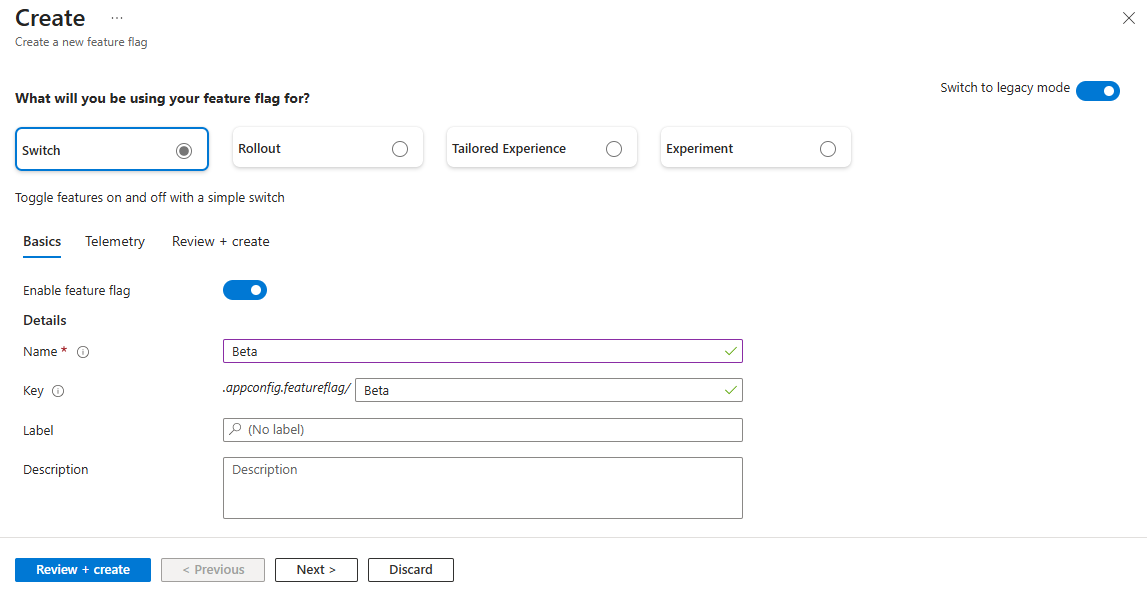
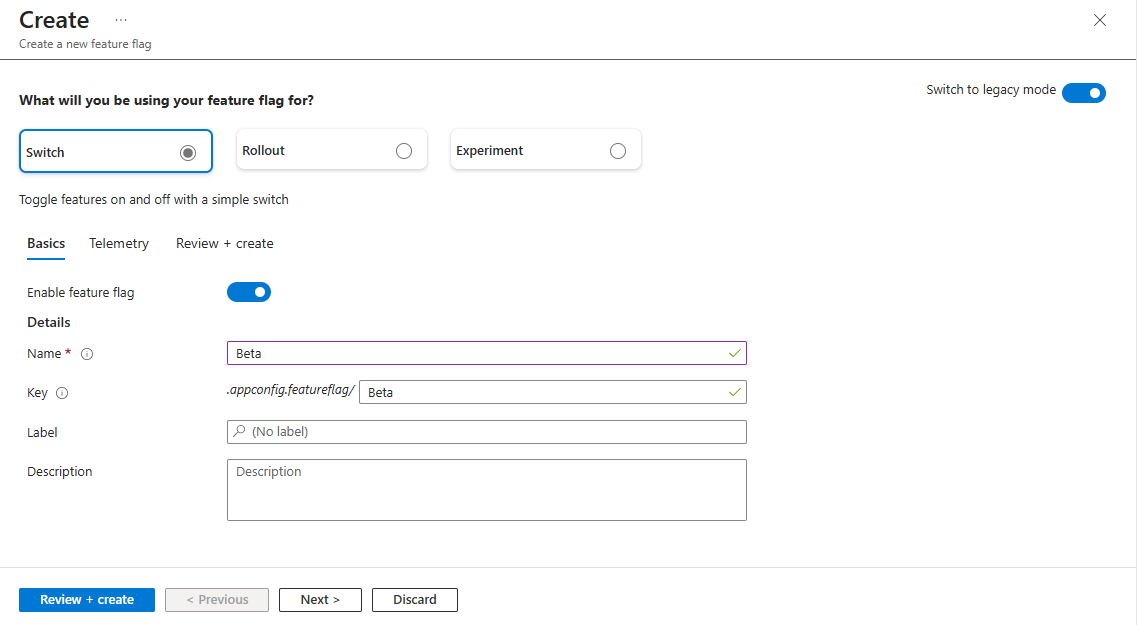
Remove tailored experiment, update images

diff --git a/articles/azure-app-configuration/manage-feature-flags.md b/articles/azure-app-configuration/manage-feature-flags.md
@@ -127,62 +127,6 @@ Add a new feature flag in the Azure portal by following the steps below.
 
     1. Select **Review + create** to see a summary of your new feature flag, and then select **Create** to finalize your operation. A notification indicates that the new feature flag was created successfully.
 
-      ### [Tailored Experience](#tab/tailored-experience)
-    
-    Use **Tailored Experience** to deliver personalized behavior based on rules or feature filters. Guidance:
-
-    - Combine targeting filters (for example, user attributes, groups, or custom rules) to define audiences.
-    - Test rules in a small audience before widening scope.
-    - Prefer targeted filters for per-customer or per-role features.
-    
-    When to use:
-    - Personalization, role-based access, or per-customer feature variations.
-    - Complex conditions that require deterministic targeting.
-
-    1. Configure **Basics** to set the core properties of your feature flag.
-            
-        | Setting                 | Example value  | Description                                                                                                                                                                                                                                                              |
-        | ----------------------- | -------------- | ------------------------------------------------------------------------------------------------------------------------------------------------------------------------------------------------------------------------------------------------------------------------ |
-        | **Enable feature flag** | Box is checked | This option enables the feature flag upon creation. If you leave this box unchecked, the new feature flag's configuration will be saved but the new feature flag will remain disabled.                                                                                   |
-        | **Feature flag name**   | *Beta*         | The feature flag name is what you use to reference the flag in your code. It must be unique within an application.                                                                                                                                                       |
-        | **Key**                 | *Beta*         | You can use the key to filter feature flags that are loaded in your application. The key is generated from the feature flag name by default, but you can also add a prefix or a namespace to group your feature flags, for example, *.appconfig.featureflag/myapp/Beta*. |
-        | **Label**               | Leave empty    | You can use labels to create different feature flags for the same key and filter flags loaded in your application based on the label. By default, a feature flag has no label.                                                                                           |
-        | **Description**         | Leave empty    | Leave empty or enter a description for your feature flag.                                                                                                                                                                                                                |
-
-        :::image type="content" source="media/manage-feature-flags/create-feature-flag-tailored-experience.png" alt-text="Screenshot of the Azure portal that shows the Create feature flag feature - Switch option.":::
-
-    1. Configure **Variants** to compare behavior, allocate traffic, and run targeted tests.
-        
-        | Setting             | Example value            | Description                                                                                                                                                                                                                          |
-        |---------------------|--------------------------|--------------------------------------------------------------------------------------------------------------------------------------------------------------------------------------------------------------------------------------|
-        | **Variant name**    | *Variant 1*              | Enter a unique name for each variant. Variant names identify the variant in the Feature manager and in telemetry or logs. Add at least two variants so you can compare outcomes and allocate traffic between them.                   |
-        | **Value**           | `<your-variant-1-value>` | The value returned for the variant. It can be a string, number, boolean, or JSON object. Use **Edit value in multiline** for complex JSON configuration that your application reads when evaluating the flag.                                |
-        | **Default variant** | *Variant 1* (Default)    | Choose one variant as the stable fallback and baseline. This variant is returned when no specific assignment applies or when the feature flag is disabled; it's also the baseline used for targeted allocation and controlled tests. |
-    
-    1. Configure **Audience** with target groups and users to assign specific variants to selected groups or individuals, regardless of percentage-based rollout.
-
-        | Setting         | Example value       | Description                                                                                                                                                                                       |
-        |-----------------|---------------------|---------------------------------------------------------------------------------------------------------------------------------------------------------------------------------------------------|
-        | **Group name**  | *MarketingTeam*     | Enter the name of a group. If a group is listed here, the corresponding variant will be assigned to that group even if its members fall outside the percentage-based allocation for that variant. |
-        | **Variant**     | *BetaExperience*    | Select the variant to assign to the specified group. This ensures a consistent experience for all members of the group regardless of rollout percentage.                                          |
-        | **User name**   | *john@example.com*  | Enter the name or identifier of an individual user. If a user is listed here, the corresponding variant will be assigned to that user even if they fall outside the percentage-based allocation.  |
-        | **Variant**     | *BetaExperience*    | Select the variant to assign to the specified user. This guarantees the user receives the intended experience regardless of other targeting rules.                                                |
-
-        > [!IMPORTANT]
-        > If feature evaluations occur in a client application (for example, a web browser), feature flag data — including user names specified here — may be exposed to end users.
-
-    1. Configure **Conditions** to schedule changes and manage custom constraints for serving your features.
-
-        | Setting                                 | Example value                                                                                              | Description                                                                                                                                                     |
-        |-----------------------------------------|------------------------------------------------------------------------------------|---------------------------------------------------------------------------------------------------------------------------------------------------------------------------------------|
-        | **Add schedule**                        | Start: *2025-11-01*<br>End: *2025-11-15*<br>Time zone: *(UTC-06:00) Central Time (US & Canada)*<br>Recurrence: disabled | Define a time-based rollout by specifying start and end dates. Optionally update the suggested time zone and enable recurrence for repeated activations. |
-        | **Add custom condition**                | `User.Subscription == "Premium"`                                                   | Create conditions based on custom attributes (for example, region, device type, or subscription level). Conditions let you target precisely which users receive the feature.         |
-        | **Require all feature filters to be enabled** | On (checked)                                                                 | This option appears only after you enable both **Add custom condition** and **Add schedule**. When checked, all enabled feature filters must evaluate to true for the feature to be applied (logical AND). When unchecked, the filters are evaluated independently (logical OR).|
-
-    1. Configure **Telemetry** to collect evaluation events for this feature flag. When enabled, evaluation events are sent to the telemetry publisher you configure in your application. Before enabling telemetry, link an Application Insights resource to the App Configuration store in **Telemetry** > **App Insights**.
-
-    1. Select **Review + create** to see a summary of your new feature flag, and then select **Create** to finalize your operation. A notification indicates that the new feature flag was created successfully.
-
     ### [Experiment](#tab/experiment)
     
     Use **Experiment** to run controlled tests and compare variants. Guidance:
